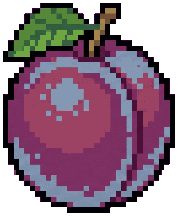
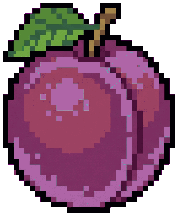
fix(ios): plum bloom, cava's lavender ghost, READ ALOUD everywhere, quiet climate plate
- The two plum portraits read as corrupted: large desaturated grey-blue
  bloom patches over the flesh. De-mottled at the source (cool low-sat
  midtones re-hued into each fruit's own family; highlights kept).
- Cava carried pale-lavender generation ghosts between bottle, glass
  stem and base — flood-keyed out in three regions (2.1k px), the glass
  stands clean against the bottle now.
- The read-aloud control is one shared full-width READ ALOUD / STOP
  READING button (ReadAloudButton) below the text of EVERY info
  section: entries, countries, continents. The inline speaker leaves.
- The climate plate drops its border ring; fill and inked text carry
  the colours.

diff --git a/Sources/VinodexUI/Screens/EntryDetailScreen.swift b/Sources/VinodexUI/Screens/EntryDetailScreen.swift
@@ -728,10 +728,10 @@ public struct EntryDetailScreen: View {
 
     private var infoSection: some View {
         DexSection("INFO", symbol: "book") {
-            // The page reads itself aloud (0.9.53; face removed same day by
-            // maintainer order — the speaker alone carries VINOBOT's voice
-            // here, large enough to be the section's visible control).
-            HStack(alignment: .top, spacing: 12) {
+            // The page reads itself aloud (0.9.53): the control moved
+            // below the text as a full-width READ ALOUD button, shared with
+            // every other info section via `ReadAloudButton`.
+            VStack(alignment: .leading, spacing: 10) {
                 Text(entry.entryDescription)
                     .font(DexFont.mono(18))
                     .foregroundStyle(lcd.bodyText)
@@ -739,35 +739,7 @@ public struct EntryDetailScreen: View {
                     .fixedSize(horizontal: false, vertical: true)
                     .frame(maxWidth: .infinity, alignment: .leading)
 
-                Button {
-                    Haptics.select()
-                    vinoVoice.speak(entry.entryDescription)
-                } label: {
-                    // The drawn sound faces (0.9.53, maintainer order) —
-                    // the settings toggle's own art; SF stays the loader's
-                    // silent fallback.
-                    DexChromeGlyph(
-                        "sounds-on",
-                        symbol: vinoVoice.speaking ? "speaker.wave.2.fill" : "speaker.wave.2",
-                        size: 22,
-                        tint: vinoVoice.speaking
-                            ? (lcd.isLight ? .white : .black)
-                            : lcd.accent
-                    )
-                        .frame(width: 44, height: 44)
-                        .background(
-                            RoundedRectangle(cornerRadius: 8)
-                                .fill(vinoVoice.speaking ? AnyShapeStyle(lcd.accent) : AnyShapeStyle(lcd.surface))
-                        )
-                        .overlay(
-                            RoundedRectangle(cornerRadius: 8)
-                                .strokeBorder(lcd.accent.opacity(0.7), lineWidth: 2)
-                        )
-                }
-                .buttonStyle(DexPressStyle(scale: 0.94))
-                .accessibilityLabel(vinoVoice.speaking
-                    ? "Stop Vinobot reading"
-                    : "Have Vinobot read this aloud")
+                ReadAloudButton(text: entry.entryDescription)
             }
             .padding(.leading, 14)
             .padding(.trailing, 10)

diff --git a/Sources/VinodexUI/Components/ReadAloudButton.swift b/Sources/VinodexUI/Components/ReadAloudButton.swift
@@ -1,0 +1,52 @@
+#if canImport(SwiftUI) && canImport(UIKit)
+import SwiftUI
+import VinodexCore
+
+/// **The read-aloud control** (0.9.53, maintainer order): one full-width
+/// button under an INFO section's text, everywhere an info section exists —
+/// entries, countries, continents. A shared view so the label, face and
+/// speaking state cannot drift between screens.
+///
+/// Reads through `VinoVoice`, whose `speak(_:)` is a toggle — a second tap
+/// stops — and whose voice ladder (Reed on device, Daniel on the simulator)
+/// lives with it.
+struct ReadAloudButton: View {
+    let text: String
+
+    @State private var vinoVoice = VinoVoice.shared
+    @AppStorage(LcdMode.storageKey) private var lcdRaw = LcdMode.dark.rawValue
+    private var lcd: LcdMode { LcdMode(rawValue: lcdRaw) ?? .dark }
+
+    var body: some View {
+        Button {
+            Haptics.select()
+            vinoVoice.speak(text)
+        } label: {
+            HStack(spacing: 10) {
+                DexChromeGlyph(
+                    "sounds-on",
+                    symbol: vinoVoice.speaking ? "speaker.wave.2.fill" : "speaker.wave.2",
+                    size: 22,
+                    tint: vinoVoice.speaking ? lcd.onAccent : lcd.accent
+                )
+                Text(vinoVoice.speaking ? "STOP READING" : "READ ALOUD")
+                    .font(DexFont.retro(12))
+                    .tracking(2)
+                    .foregroundStyle(vinoVoice.speaking ? lcd.onAccent : lcd.accent)
+            }
+            .frame(maxWidth: .infinity)
+            .padding(.vertical, 12)
+            .background(
+                RoundedRectangle(cornerRadius: 6)
+                    .fill(vinoVoice.speaking ? AnyShapeStyle(lcd.accent) : AnyShapeStyle(lcd.surface))
+            )
+            .overlay(
+                RoundedRectangle(cornerRadius: 6)
+                    .strokeBorder(lcd.accent.opacity(0.7), lineWidth: 2)
+            )
+        }
+        .buttonStyle(DexPressStyle(scale: 0.98))
+        .accessibilityLabel(vinoVoice.speaking ? "Stop reading aloud" : "Read this section aloud")
+    }
+}
+#endif

diff --git a/Sources/VinodexUI/Screens/ContinentScreen.swift b/Sources/VinodexUI/Screens/ContinentScreen.swift
@@ -111,18 +111,23 @@ public struct ContinentScreen: View {
 
     private var infoSection: some View {
         DexSection("INFO", symbol: "book") {
-            Text(continent.common.description)
-                .font(DexFont.mono(21))
-                .foregroundStyle(lcd.bodyText)
-                .lineSpacing(2)
-                .fixedSize(horizontal: false, vertical: true)
-                .frame(maxWidth: .infinity, alignment: .leading)
-                .padding(.leading, 14)
-                .padding(.vertical, 10)
-                .background(alignment: .leading) {
-                    lcd.accent.frame(width: 4)
-                }
-                .background(lcd.accent.opacity(0.06))
+            VStack(alignment: .leading, spacing: 10) {
+                Text(continent.common.description)
+                    .font(DexFont.mono(21))
+                    .foregroundStyle(lcd.bodyText)
+                    .lineSpacing(2)
+                    .fixedSize(horizontal: false, vertical: true)
+                    .frame(maxWidth: .infinity, alignment: .leading)
+
+                ReadAloudButton(text: continent.common.description)
+            }
+            .padding(.leading, 14)
+            .padding(.trailing, 10)
+            .padding(.vertical, 10)
+            .background(alignment: .leading) {
+                lcd.accent.frame(width: 4)
+            }
+            .background(lcd.accent.opacity(0.06))
         }
     }
 

diff --git a/Sources/VinodexUI/Screens/EntryDetailSections.swift b/Sources/VinodexUI/Screens/EntryDetailSections.swift
@@ -138,10 +138,9 @@ struct EntryDetailSections: View {
             .padding(.horizontal, 14)
             .padding(.vertical, 9)
             .background(Color(dexHex: colors.bg))
-            .overlay(
-                RoundedRectangle(cornerRadius: 4)
-                    .strokeBorder(Color(dexHex: colors.border), lineWidth: 1)
-            )
+            // Border outline removed 0.9.53 (maintainer order): the plate's
+            // own fill and inked text carry the climate colours; the green
+            // ring read as a stray selection state.
             .modifier(TileLink(destination: destination, onOpen: onOpenRoute))
         }
     }

diff --git a/Sources/VinodexUI/Screens/CountryScreen.swift b/Sources/VinodexUI/Screens/CountryScreen.swift
@@ -235,6 +235,8 @@ public struct CountryScreen: View {
                         .lineSpacing(2)
                         .fixedSize(horizontal: false, vertical: true)
                         .frame(maxWidth: .infinity, alignment: .leading)
+
+                    ReadAloudButton(text: info.description)
                 }
             }
             .padding(.leading, 14)
